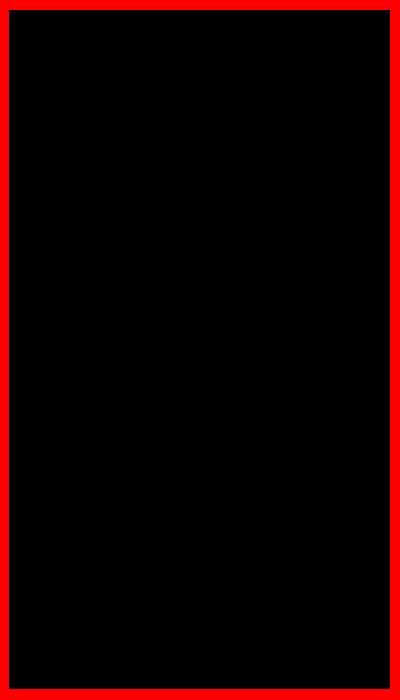
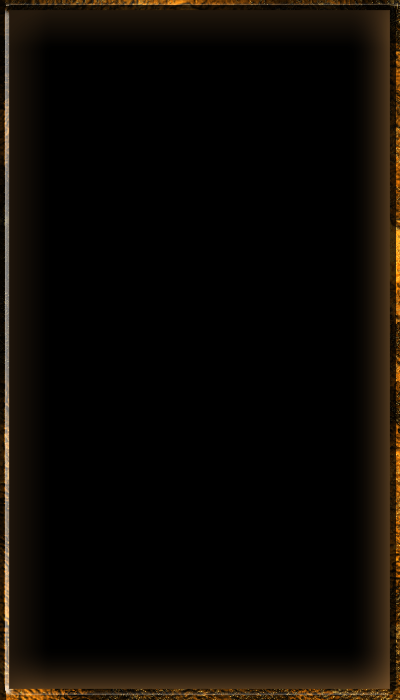
gui tweaks
new hud images

Changed region(s): [[0.0, 0.0, 1.0, 1.0]]

diff --git a/src/com/GearGrinder/Game.java b/src/com/GearGrinder/Game.java
@@ -260,31 +260,31 @@ public class Game extends Canvas implements Runnable {
 		
 		//INVENTORY
 		if(Player.invshow == true){
-			g.drawImage(bag2, width + 324, height * 2 - 76, null);			
+			g.drawImage(bag2, width + 321, height * 2 - 78, null);			
 		}else {
-			g.drawImage(bag, width + 324, height * 2 - 76, null);
+			g.drawImage(bag, width + 321, height * 2 - 78, null);
 		}
 		
 		// HUD
-		g.drawImage(hud, width / 2 - 60, height * 2 - 102, null);
+		g.drawImage(hud, width / 2 - 69, height * 2 - 112, null);
 		//HUD top elements
 		g.drawImage(hpmpframe, width / 2 - 54, height * 2 - 95, null);
 		
 		
-		//HELP PAGE
+		//HELP button
 		if(Player.helpshow == true){
-			g.drawImage(help2, width - 7, height * 2 - 100, null);
+			g.drawImage(help2, width - 10, height * 2 - 98, null);
 		}else {
-			g.drawImage(help, width - 7, height * 2 - 100, null);
+			g.drawImage(help, width - 10, height * 2 - 98, null);
 		}
 		
 		// Stamina bar
 		g.setColor(Color.DARK_GRAY);
-		g.fillRect(width - 35, height * scale - 50, 100, 20);
+		g.fillRect(width - 37, height * scale - 50, 100, 20);
 		g.setColor(Color.BLACK);
-		g.fillRect(width - 35, height * scale - 50, (int)Player.staminapercent, 20);
+		g.fillRect(width - 37, height * scale - 50, (int)Player.staminapercent, 20);
 		g.setColor(Color.lightGray);
-		g.drawString("Stamina : " + (int)Player.staminapercent, width - 35, height * scale - 35);
+		g.drawString("Stamina : " + (int)Player.staminapercent, width - 37, height * scale - 35);
 		
 		g.setColor(Color.WHITE);
 		g.drawString("Mobs on screen: " + mobsonscreen, 370, 16);

diff --git a/src/com/GearGrinder/input/Mouse.java b/src/com/GearGrinder/input/Mouse.java
@@ -30,7 +30,7 @@ public class Mouse implements MouseListener, MouseMotionListener{
 	public void mouseMoved(MouseEvent e) {
 		mouseX = e.getX();
 		mouseY = e.getY();
-		//System.out.println("" + e.getX() + ", " + e.getY());
+		System.out.println("" + e.getX() + ", " + e.getY());
 	}
 
 	public void mouseClicked(MouseEvent e) {
@@ -40,13 +40,13 @@ public class Mouse implements MouseListener, MouseMotionListener{
 	public void mousePressed(MouseEvent e) {
 		
 		//checks if an object was clicked
-		if((e.getX() >= 643 && e.getX() <= 667) && (e.getY() >= 671 && e.getY() <= 701)){
+		if((e.getX() >= 631 && e.getX() <= 663) && (e.getY() >= 673 && e.getY() <= 702)){
 			if(Player.helpshow == false){
 				Player.helpshow = true;
 			}else if(Player.helpshow == true){
 				Player.helpshow = false;
 			}
-		}else if((e.getX() >= 962 && e.getX() <= 1004) && (e.getY() >= 693 && e.getY() <= 741)){
+		}else if((e.getX() >= 960 && e.getX() <= 1002) && (e.getY() >= 693 && e.getY() <= 738)){
 			if(Player.invshow == false){
 				Player.invshow = true;
 			}else if(Player.invshow == true){
